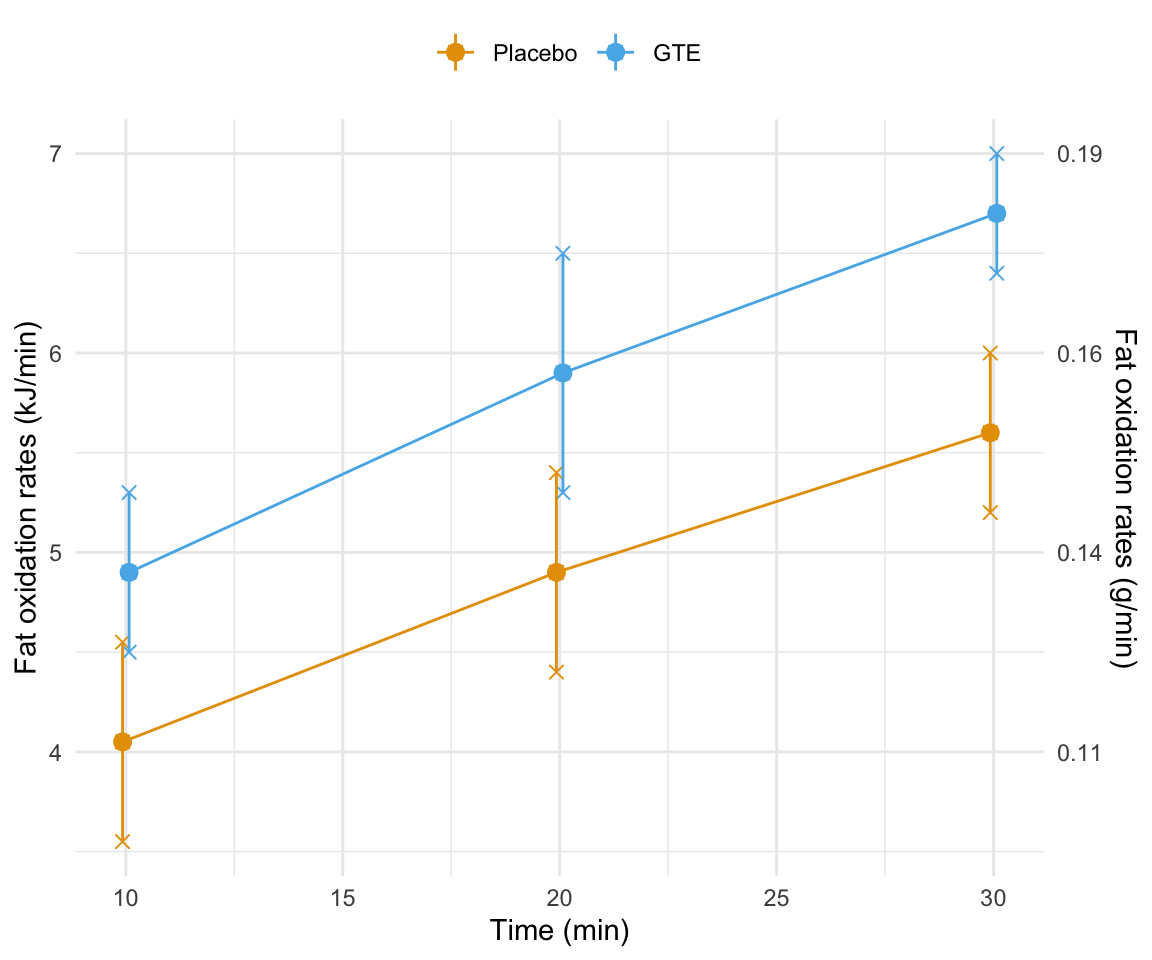
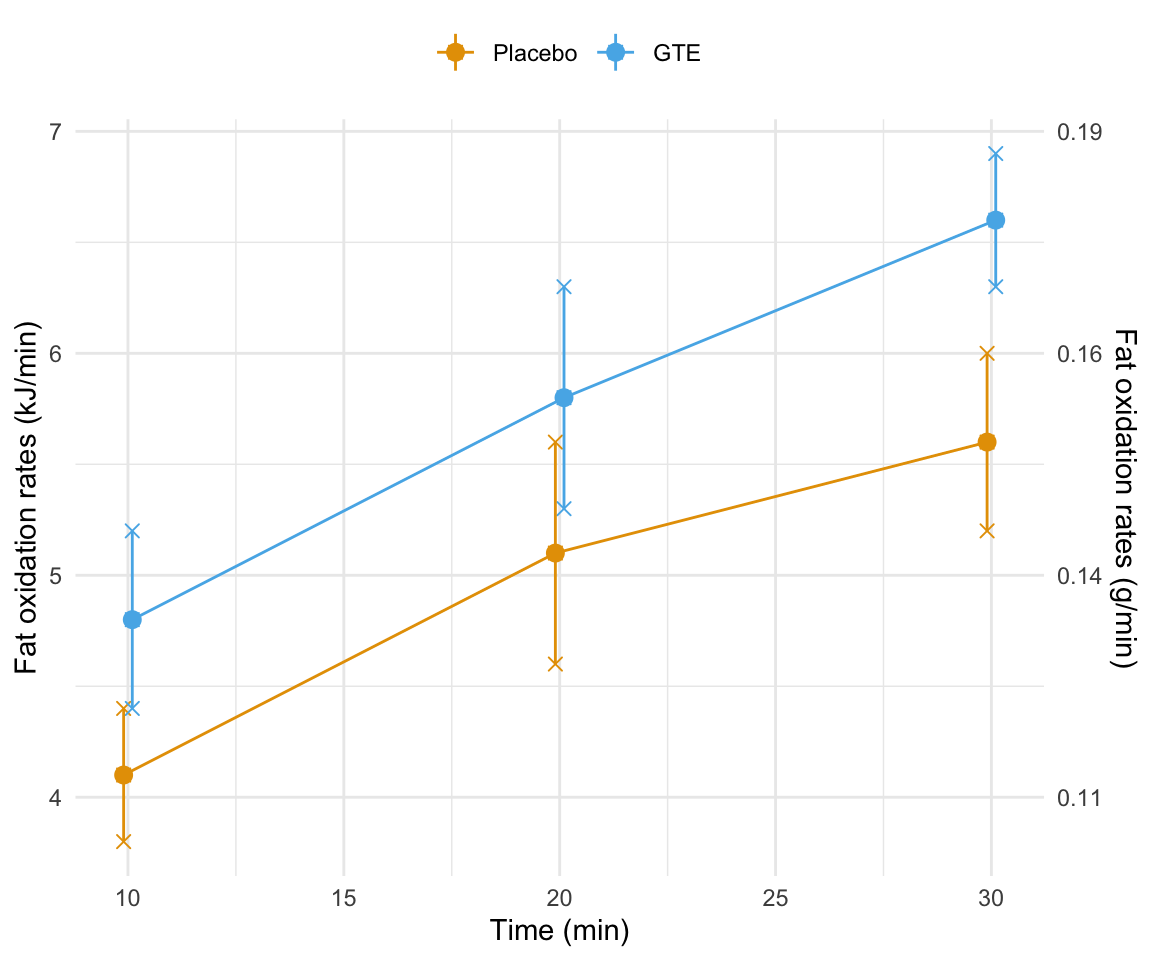
addad

diff --git a/docs/app-spielecke.html b/docs/app-spielecke.html
@@ -844,7 +844,7 @@ window.Quarto = {
 </header>
 
 
-<p><em>Letzte Änderung am 17. March 2024 um 20:55:11</em></p>
+<p><em>Letzte Änderung am 18. March 2024 um 10:30:10</em></p>
 <blockquote class="blockquote">
 <p><em>“Denn, um es endlich auf einmal herauszusagen, der Mensch spielt nur, wo er in voller Bedeutung des Worts Mensch ist, und er ist nur da ganz Mensch, wo er spielt.” — Friedrich Schiller</em></p>
 </blockquote>
@@ -869,7 +869,7 @@ window.Quarto = {
 <div id="fig-zer-green-tea-01" class="quarto-figure quarto-figure-center quarto-float anchored" data-fig-align="center">
 <figure class="quarto-float quarto-float-fig figure">
 <div aria-describedby="fig-zer-green-tea-01-caption-0ceaefa1-69ba-4598-a22c-09a6ac19f8ca">
-<a href="images/eda/zerforschen_green_tea_effect_01.png" class="lightbox" data-glightbox="description: .lightbox-desc-2" data-gallery="quarto-lightbox-gallery-2"><img src="images/eda/zerforschen_green_tea_effect_01.png" class="img-fluid quarto-figure quarto-figure-center figure-img" style="width:80.0%"></a>
+<a href="images/eda/zerforschen_green_tea_effect_01.png" class="lightbox" data-gallery="quarto-lightbox-gallery-2" data-glightbox="description: .lightbox-desc-2"><img src="images/eda/zerforschen_green_tea_effect_01.png" class="img-fluid quarto-figure quarto-figure-center figure-img" style="width:80.0%"></a>
 </div>
 <figcaption class="quarto-float-caption-bottom quarto-float-caption quarto-float-fig" id="fig-zer-green-tea-01-caption-0ceaefa1-69ba-4598-a22c-09a6ac19f8ca">
 Abbildung&nbsp;73.1— Ursprüngliche Abbildung, die nachgebaut werden soll. Zwei lineare Regressionen mit den jeweiligen Regressionsgleichungen.
@@ -879,7 +879,7 @@ Abbildung&nbsp;73.1— Ursprüngliche Abbildung, die nachgebaut werden soll. Zwe
 <div id="fig-zer-green-tea-03" class="quarto-figure quarto-figure-center quarto-float anchored" data-fig-align="center">
 <figure class="quarto-float quarto-float-fig figure">
 <div aria-describedby="fig-zer-green-tea-03-caption-0ceaefa1-69ba-4598-a22c-09a6ac19f8ca">
-<a href="images/eda/zerforschen_green_tea_effect_03.png" class="lightbox" data-glightbox="description: .lightbox-desc-3" data-gallery="quarto-lightbox-gallery-3"><img src="images/eda/zerforschen_green_tea_effect_03.png" class="img-fluid quarto-figure quarto-figure-center figure-img" style="width:80.0%"></a>
+<a href="images/eda/zerforschen_green_tea_effect_03.png" class="lightbox" data-gallery="quarto-lightbox-gallery-3" data-glightbox="description: .lightbox-desc-3"><img src="images/eda/zerforschen_green_tea_effect_03.png" class="img-fluid quarto-figure quarto-figure-center figure-img" style="width:80.0%"></a>
 </div>
 <figcaption class="quarto-float-caption-bottom quarto-float-caption quarto-float-fig" id="fig-zer-green-tea-03-caption-0ceaefa1-69ba-4598-a22c-09a6ac19f8ca">
 Abbildung&nbsp;73.2— Ursprüngliche Abbildung, die nachgebaut werden soll. Zwei lineare Regressionen mit den jeweiligen Regressionsgleichungen.
@@ -889,7 +889,7 @@ Abbildung&nbsp;73.2— Ursprüngliche Abbildung, die nachgebaut werden soll. Zwe
 <div id="fig-zer-green-tea-02" class="quarto-figure quarto-figure-center quarto-float anchored" data-fig-align="center">
 <figure class="quarto-float quarto-float-fig figure">
 <div aria-describedby="fig-zer-green-tea-02-caption-0ceaefa1-69ba-4598-a22c-09a6ac19f8ca">
-<a href="images/eda/zerforschen_green_tea_effect_02.png" class="lightbox" data-glightbox="description: .lightbox-desc-4" data-gallery="quarto-lightbox-gallery-4"><img src="images/eda/zerforschen_green_tea_effect_02.png" class="img-fluid quarto-figure quarto-figure-center figure-img" style="width:100.0%"></a>
+<a href="images/eda/zerforschen_green_tea_effect_02.png" class="lightbox" data-gallery="quarto-lightbox-gallery-4" data-glightbox="description: .lightbox-desc-4"><img src="images/eda/zerforschen_green_tea_effect_02.png" class="img-fluid quarto-figure quarto-figure-center figure-img" style="width:100.0%"></a>
 </div>
 <figcaption class="quarto-float-caption-bottom quarto-float-caption quarto-float-fig" id="fig-zer-green-tea-02-caption-0ceaefa1-69ba-4598-a22c-09a6ac19f8ca">
 Abbildung&nbsp;73.3— Ursprüngliche Abbildung, die nachgebaut werden soll. Zwei lineare Regressionen mit den jeweiligen Regressionsgleichungen.
@@ -913,15 +913,15 @@ Abbildung&nbsp;73.3— Ursprüngliche Abbildung, die nachgebaut werden soll. Zwe
 <div class="cell-output cell-output-stdout">
 <pre><code>time_fct = 10:
  contrast      estimate    SE df t.ratio p.value
- Placebo - GTE    -0.85 0.376 12  -2.263  0.0430
+ Placebo - GTE     -0.7 0.333 12  -2.100  0.0575
 
 time_fct = 20:
  contrast      estimate    SE df t.ratio p.value
- Placebo - GTE    -1.00 0.376 12  -2.662  0.0207
+ Placebo - GTE     -0.7 0.333 12  -2.100  0.0575
 
 time_fct = 30:
  contrast      estimate    SE df t.ratio p.value
- Placebo - GTE    -1.10 0.376 12  -2.928  0.0126</code></pre>
+ Placebo - GTE     -1.0 0.333 12  -3.000  0.0111</code></pre>
 </div>
 </div>
 <div class="tabset-margin-container"></div><div class="panel-tabset">
@@ -936,11 +936,11 @@ time_fct = 30:
 <span id="cb5-5"><a href="#cb5-5" aria-hidden="true" tabindex="-1"></a>f <span class="ot">&lt;-</span> \(x) <span class="fu">predict</span>(placebo_fit, <span class="at">newdata =</span> <span class="fu">tibble</span>(<span class="at">time =</span> x)) </span>
 <span id="cb5-6"><a href="#cb5-6" aria-hidden="true" tabindex="-1"></a><span class="fu">integrate</span>(f, <span class="dv">10</span>, <span class="dv">30</span>)</span></code><button title="In die Zwischenablage kopieren" class="code-copy-button"><i class="bi"></i></button></pre></div>
 <div class="cell-output cell-output-stdout">
-<pre><code>97 with absolute error &lt; 1.1e-12</code></pre>
+<pre><code>98.66667 with absolute error &lt; 1.1e-12</code></pre>
 </div>
 </div>
 <p><span class="math display">\[
-\cfrac{97\; kJ/min}{37\; kJ/g} = 2.62 \; g/min
+\cfrac{98.6\; kJ/min}{37\; kJ/g} = 2.66 \; g/min
 \]</span></p>
 </div>
 <div id="tabset-1-2" class="tab-pane" role="tabpanel" aria-labelledby="tabset-1-2-tab">
@@ -952,27 +952,27 @@ time_fct = 30:
 <span id="cb7-5"><a href="#cb7-5" aria-hidden="true" tabindex="-1"></a>f <span class="ot">&lt;-</span> \(x) <span class="fu">predict</span>(gte_fit, <span class="at">newdata =</span> <span class="fu">tibble</span>(<span class="at">time =</span> x)) </span>
 <span id="cb7-6"><a href="#cb7-6" aria-hidden="true" tabindex="-1"></a><span class="fu">integrate</span>(f, <span class="dv">10</span>, <span class="dv">30</span>)</span></code><button title="In die Zwischenablage kopieren" class="code-copy-button"><i class="bi"></i></button></pre></div>
 <div class="cell-output cell-output-stdout">
-<pre><code>116.6667 with absolute error &lt; 1.3e-12</code></pre>
+<pre><code>114.6667 with absolute error &lt; 1.3e-12</code></pre>
 </div>
 </div>
 <p><span class="math display">\[
-\cfrac{116.67\; kJ/min}{37\; kJ/g} = 3.15 \; g/min
+\cfrac{114.67\; kJ/min}{37\; kJ/g} = 3.10 \; g/min
 \]</span></p>
 </div>
 </div>
 </div>
 <p><span class="math display">\[
-\cfrac{3.15}{2.62} = 1.2 \approx\; \uparrow 20\%  
+\cfrac{3.10}{2.66} = 1.17 \approx\; \uparrow 17\%  
 \]</span></p>
 <div class="cell" data-layout-align="center">
 <div class="sourceCode cell-code" id="cb9"><pre class="sourceCode r code-with-copy"><code class="sourceCode r"><span id="cb9-1"><a href="#cb9-1" aria-hidden="true" tabindex="-1"></a>green_tea_tbl <span class="sc">|&gt;</span> </span>
 <span id="cb9-2"><a href="#cb9-2" aria-hidden="true" tabindex="-1"></a>  <span class="fu">ggplot</span>(<span class="fu">aes</span>(time, fat_ox_r_kj_min, <span class="at">color =</span> trt)) <span class="sc">+</span></span>
 <span id="cb9-3"><a href="#cb9-3" aria-hidden="true" tabindex="-1"></a>  <span class="fu">theme_minimal</span>() <span class="sc">+</span></span>
-<span id="cb9-4"><a href="#cb9-4" aria-hidden="true" tabindex="-1"></a>  <span class="fu">geom_jitter</span>(<span class="at">position=</span><span class="fu">position_dodge</span>(<span class="fl">0.3</span>), <span class="at">shape =</span> <span class="dv">4</span>, <span class="at">size =</span> <span class="dv">2</span>) <span class="sc">+</span></span>
+<span id="cb9-4"><a href="#cb9-4" aria-hidden="true" tabindex="-1"></a>  <span class="fu">geom_jitter</span>(<span class="at">position=</span><span class="fu">position_dodge</span>(<span class="fl">0.4</span>), <span class="at">shape =</span> <span class="dv">4</span>, <span class="at">size =</span> <span class="dv">2</span>) <span class="sc">+</span></span>
 <span id="cb9-5"><a href="#cb9-5" aria-hidden="true" tabindex="-1"></a>  <span class="fu">stat_summary</span>(<span class="at">fun.data=</span><span class="st">"mean_sdl"</span>, <span class="at">fun.args =</span> <span class="fu">list</span>(<span class="at">mult =</span> <span class="dv">1</span>), </span>
-<span id="cb9-6"><a href="#cb9-6" aria-hidden="true" tabindex="-1"></a>               <span class="at">geom=</span><span class="st">"pointrange"</span>, <span class="at">position=</span><span class="fu">position_dodge</span>(<span class="fl">0.3</span>))  <span class="sc">+</span></span>
+<span id="cb9-6"><a href="#cb9-6" aria-hidden="true" tabindex="-1"></a>               <span class="at">geom=</span><span class="st">"pointrange"</span>, <span class="at">position=</span><span class="fu">position_dodge</span>(<span class="fl">0.4</span>))  <span class="sc">+</span></span>
 <span id="cb9-7"><a href="#cb9-7" aria-hidden="true" tabindex="-1"></a>  <span class="fu">stat_summary</span>(<span class="at">fun =</span> <span class="st">"mean"</span>, <span class="at">fun.min =</span> <span class="st">"min"</span>, <span class="at">fun.max =</span> <span class="st">"max"</span>, <span class="at">geom =</span> <span class="st">"line"</span>,</span>
-<span id="cb9-8"><a href="#cb9-8" aria-hidden="true" tabindex="-1"></a>               <span class="at">position=</span><span class="fu">position_dodge</span>(<span class="fl">0.3</span>)) <span class="sc">+</span></span>
+<span id="cb9-8"><a href="#cb9-8" aria-hidden="true" tabindex="-1"></a>               <span class="at">position=</span><span class="fu">position_dodge</span>(<span class="fl">0.4</span>)) <span class="sc">+</span></span>
 <span id="cb9-9"><a href="#cb9-9" aria-hidden="true" tabindex="-1"></a>  <span class="fu">labs</span>(<span class="at">x =</span> <span class="st">"Time (min)"</span>, <span class="at">y =</span> <span class="st">"Fat oxidation rates (kJ/min)"</span>, <span class="at">color =</span> <span class="st">""</span>) <span class="sc">+</span></span>
 <span id="cb9-10"><a href="#cb9-10" aria-hidden="true" tabindex="-1"></a>  <span class="fu">scale_y_continuous</span>(<span class="at">sec.axis =</span> <span class="fu">sec_axis</span>(<span class="sc">~</span> .<span class="sc">/</span><span class="dv">37</span>, <span class="at">breaks =</span> <span class="fu">c</span>(<span class="dv">4</span><span class="sc">:</span><span class="dv">7</span><span class="sc">/</span><span class="dv">37</span>),</span>
 <span id="cb9-11"><a href="#cb9-11" aria-hidden="true" tabindex="-1"></a>                                         <span class="at">labels =</span> <span class="fu">round</span>(<span class="fu">c</span>(<span class="dv">4</span><span class="sc">:</span><span class="dv">7</span><span class="sc">/</span><span class="dv">37</span>), <span class="dv">2</span>),</span>
@@ -983,7 +983,7 @@ time_fct = 30:
 <div id="fig-zerforschen-green-tea-01" class="quarto-figure quarto-figure-center quarto-float anchored" data-fig-align="center">
 <figure class="quarto-float quarto-float-fig figure">
 <div aria-describedby="fig-zerforschen-green-tea-01-caption-0ceaefa1-69ba-4598-a22c-09a6ac19f8ca">
-<a href="app-spielecke_files/figure-html/fig-zerforschen-green-tea-01-1.png" class="lightbox" data-glightbox="description: .lightbox-desc-5" data-gallery="quarto-lightbox-gallery-5"><img src="app-spielecke_files/figure-html/fig-zerforschen-green-tea-01-1.png" class="img-fluid quarto-figure quarto-figure-center figure-img" width="576"></a>
+<a href="app-spielecke_files/figure-html/fig-zerforschen-green-tea-01-1.png" class="lightbox" data-gallery="quarto-lightbox-gallery-5" data-glightbox="description: .lightbox-desc-5"><img src="app-spielecke_files/figure-html/fig-zerforschen-green-tea-01-1.png" class="img-fluid quarto-figure quarto-figure-center figure-img" width="576"></a>
 </div>
 <figcaption class="quarto-float-caption-bottom quarto-float-caption quarto-float-fig" id="fig-zerforschen-green-tea-01-caption-0ceaefa1-69ba-4598-a22c-09a6ac19f8ca">
 Abbildung&nbsp;73.4— Visualisierung der Sensorwerte nach Wasserlinsendichte. Pro Dichtewert liegen drei Sensormessungen vor.
@@ -1011,7 +1011,7 @@ Abbildung&nbsp;73.4— Visualisierung der Sensorwerte nach Wasserlinsendichte. P
 <div id="fig-zerforschen-green-tea-02" class="quarto-figure quarto-figure-center quarto-float anchored" data-fig-align="center">
 <figure class="quarto-float quarto-float-fig figure">
 <div aria-describedby="fig-zerforschen-green-tea-02-caption-0ceaefa1-69ba-4598-a22c-09a6ac19f8ca">
-<a href="app-spielecke_files/figure-html/fig-zerforschen-green-tea-02-1.png" class="lightbox" data-glightbox="description: .lightbox-desc-6" data-gallery="quarto-lightbox-gallery-6"><img src="app-spielecke_files/figure-html/fig-zerforschen-green-tea-02-1.png" class="img-fluid quarto-figure quarto-figure-center figure-img" width="576"></a>
+<a href="app-spielecke_files/figure-html/fig-zerforschen-green-tea-02-1.png" class="lightbox" data-gallery="quarto-lightbox-gallery-6" data-glightbox="description: .lightbox-desc-6"><img src="app-spielecke_files/figure-html/fig-zerforschen-green-tea-02-1.png" class="img-fluid quarto-figure quarto-figure-center figure-img" width="576"></a>
 </div>
 <figcaption class="quarto-float-caption-bottom quarto-float-caption quarto-float-fig" id="fig-zerforschen-green-tea-02-caption-0ceaefa1-69ba-4598-a22c-09a6ac19f8ca">
 Abbildung&nbsp;73.5— Visualisierung der Sensorwerte nach Wasserlinsendichte. Pro Dichtewert liegen drei Sensormessungen vor.
@@ -1034,7 +1034,7 @@ Abbildung&nbsp;73.5— Visualisierung der Sensorwerte nach Wasserlinsendichte. P
 <div id="fig-nasa-ozone" class="quarto-figure quarto-figure-center quarto-float anchored" data-fig-align="center">
 <figure class="quarto-float quarto-float-fig figure">
 <div aria-describedby="fig-nasa-ozone-caption-0ceaefa1-69ba-4598-a22c-09a6ac19f8ca">
-<a href="images/eda/zerforschen-nasa-ozone.png" class="lightbox" data-glightbox="description: .lightbox-desc-7" data-gallery="quarto-lightbox-gallery-7"><img src="images/eda/zerforschen-nasa-ozone.png" class="img-fluid quarto-figure quarto-figure-center figure-img" style="width:100.0%"></a>
+<a href="images/eda/zerforschen-nasa-ozone.png" class="lightbox" data-gallery="quarto-lightbox-gallery-7" data-glightbox="description: .lightbox-desc-7"><img src="images/eda/zerforschen-nasa-ozone.png" class="img-fluid quarto-figure quarto-figure-center figure-img" style="width:100.0%"></a>
 </div>
 <figcaption class="quarto-float-caption-bottom quarto-float-caption quarto-float-fig" id="fig-nasa-ozone-caption-0ceaefa1-69ba-4598-a22c-09a6ac19f8ca">
 Abbildung&nbsp;73.6— Ursprüngliche Abbildung, die nachgebaut werden soll. Zwei lineare Regressionen mit den jeweiligen Regressionsgleichungen.
@@ -1099,7 +1099,7 @@ total\_ozone = 6111 - 2.96 \cdot year
 <div id="fig-zerforschen-nasa-ozone" class="quarto-figure quarto-figure-center quarto-float anchored" data-fig-align="center">
 <figure class="quarto-float quarto-float-fig figure">
 <div aria-describedby="fig-zerforschen-nasa-ozone-caption-0ceaefa1-69ba-4598-a22c-09a6ac19f8ca">
-<a href="app-spielecke_files/figure-html/fig-zerforschen-nasa-ozone-1.gif" class="lightbox" data-glightbox="description: .lightbox-desc-8" data-gallery="quarto-lightbox-gallery-8"><img src="app-spielecke_files/figure-html/fig-zerforschen-nasa-ozone-1.gif" class="img-fluid quarto-figure quarto-figure-center figure-img"></a>
+<a href="app-spielecke_files/figure-html/fig-zerforschen-nasa-ozone-1.gif" class="lightbox" data-gallery="quarto-lightbox-gallery-8" data-glightbox="description: .lightbox-desc-8"><img src="app-spielecke_files/figure-html/fig-zerforschen-nasa-ozone-1.gif" class="img-fluid quarto-figure quarto-figure-center figure-img"></a>
 </div>
 <figcaption class="quarto-float-caption-bottom quarto-float-caption quarto-float-fig" id="fig-zerforschen-nasa-ozone-caption-0ceaefa1-69ba-4598-a22c-09a6ac19f8ca">
 Abbildung&nbsp;73.7— Visualisierung der Sensorwerte nach Wasserlinsendichte. Pro Dichtewert liegen drei Sensormessungen vor.
@@ -1314,7 +1314,7 @@ AR =
 <div id="fig-eda-preface-r-01" class="quarto-figure quarto-figure-center quarto-float anchored" data-fig-align="center">
 <figure class="quarto-float quarto-float-fig figure">
 <div aria-describedby="fig-eda-preface-r-01-caption-0ceaefa1-69ba-4598-a22c-09a6ac19f8ca">
-<a href="app-spielecke_files/figure-html/fig-eda-preface-r-01-1.png" class="lightbox" data-glightbox="description: .lightbox-desc-9" data-gallery="quarto-lightbox-gallery-9"><img src="app-spielecke_files/figure-html/fig-eda-preface-r-01-1.png" class="img-fluid quarto-figure quarto-figure-center figure-img" width="672"></a>
+<a href="app-spielecke_files/figure-html/fig-eda-preface-r-01-1.png" class="lightbox" data-gallery="quarto-lightbox-gallery-9" data-glightbox="description: .lightbox-desc-9"><img src="app-spielecke_files/figure-html/fig-eda-preface-r-01-1.png" class="img-fluid quarto-figure quarto-figure-center figure-img" width="672"></a>
 </div>
 <figcaption class="quarto-float-caption-bottom quarto-float-caption quarto-float-fig" id="fig-eda-preface-r-01-caption-0ceaefa1-69ba-4598-a22c-09a6ac19f8ca">
 Abbildung&nbsp;73.8— Im Jahr 1995 waren 37 % der Informatiker Frauen. Heute sind es nur noch 24 %. Der Prozentsatz wird weiter sinken, wenn wir nichts tun. Wir wissen, dass der größte Rückgang von Mädchen in der Informatik im Alter zwischen 13 und 17 Jahren stattfindet. Quelle: <a href="https://girlswhocode.com/about-us">Girls who code</a>
@@ -1955,7 +1955,7 @@ window.document.addEventListener("DOMContentLoaded", function (event) {
 </div>
   </div>
 </footer>
-<script>var lightboxQuarto = GLightbox({"closeEffect":"zoom","openEffect":"zoom","descPosition":"bottom","selector":".lightbox","loop":false});
+<script>var lightboxQuarto = GLightbox({"loop":false,"selector":".lightbox","descPosition":"bottom","openEffect":"zoom","closeEffect":"zoom"});
 window.onload = () => {
   lightboxQuarto.on('slide_before_load', (data) => {
     const { slideIndex, slideNode, slideConfig, player, trigger } = data;
